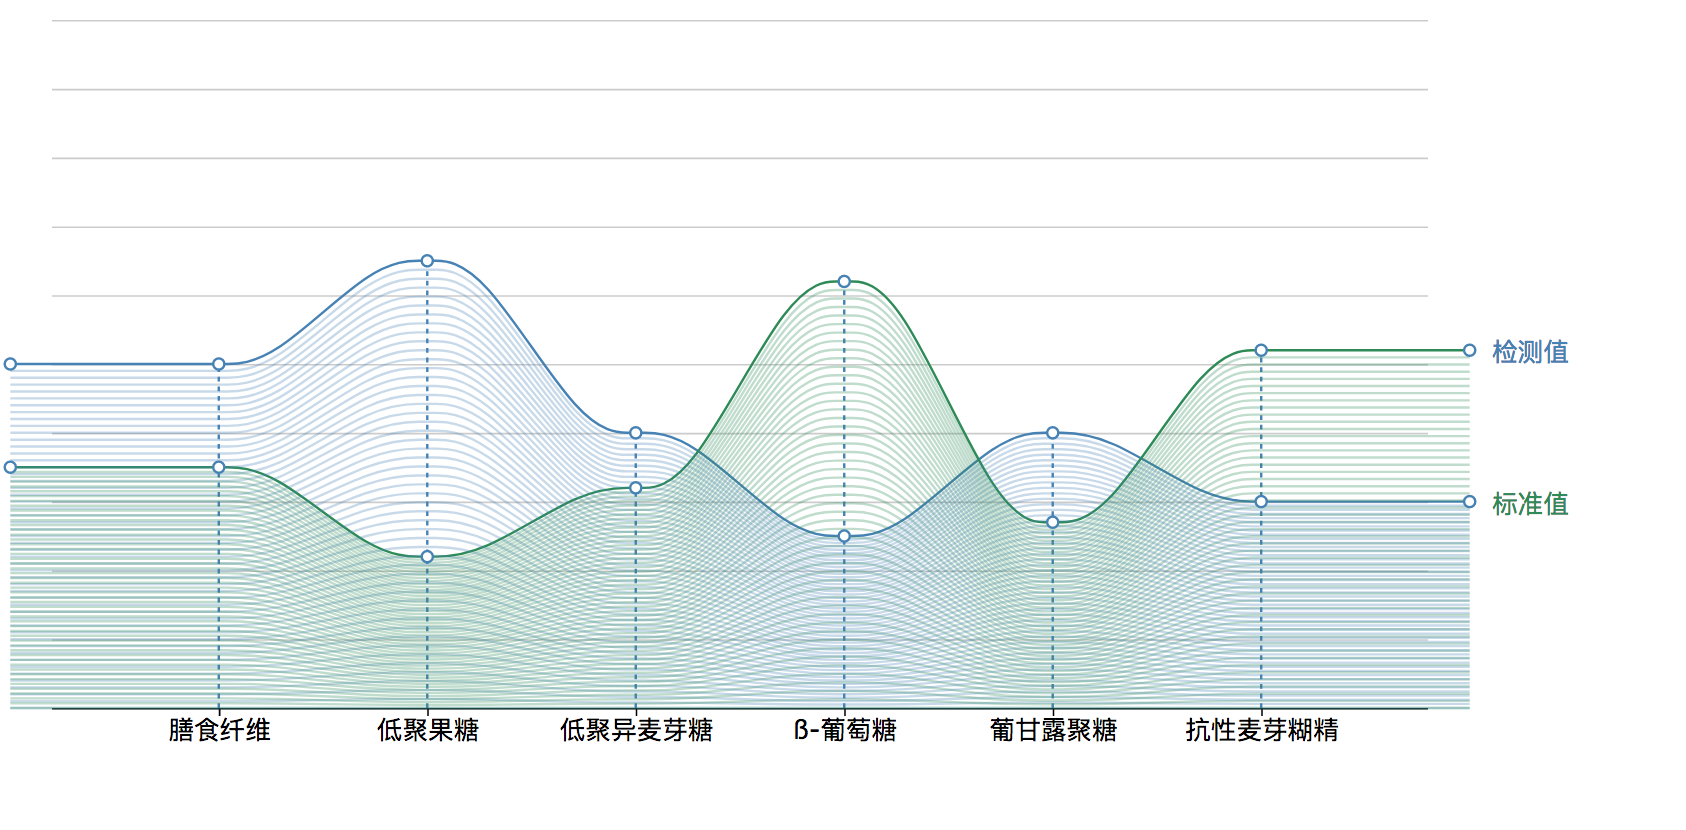
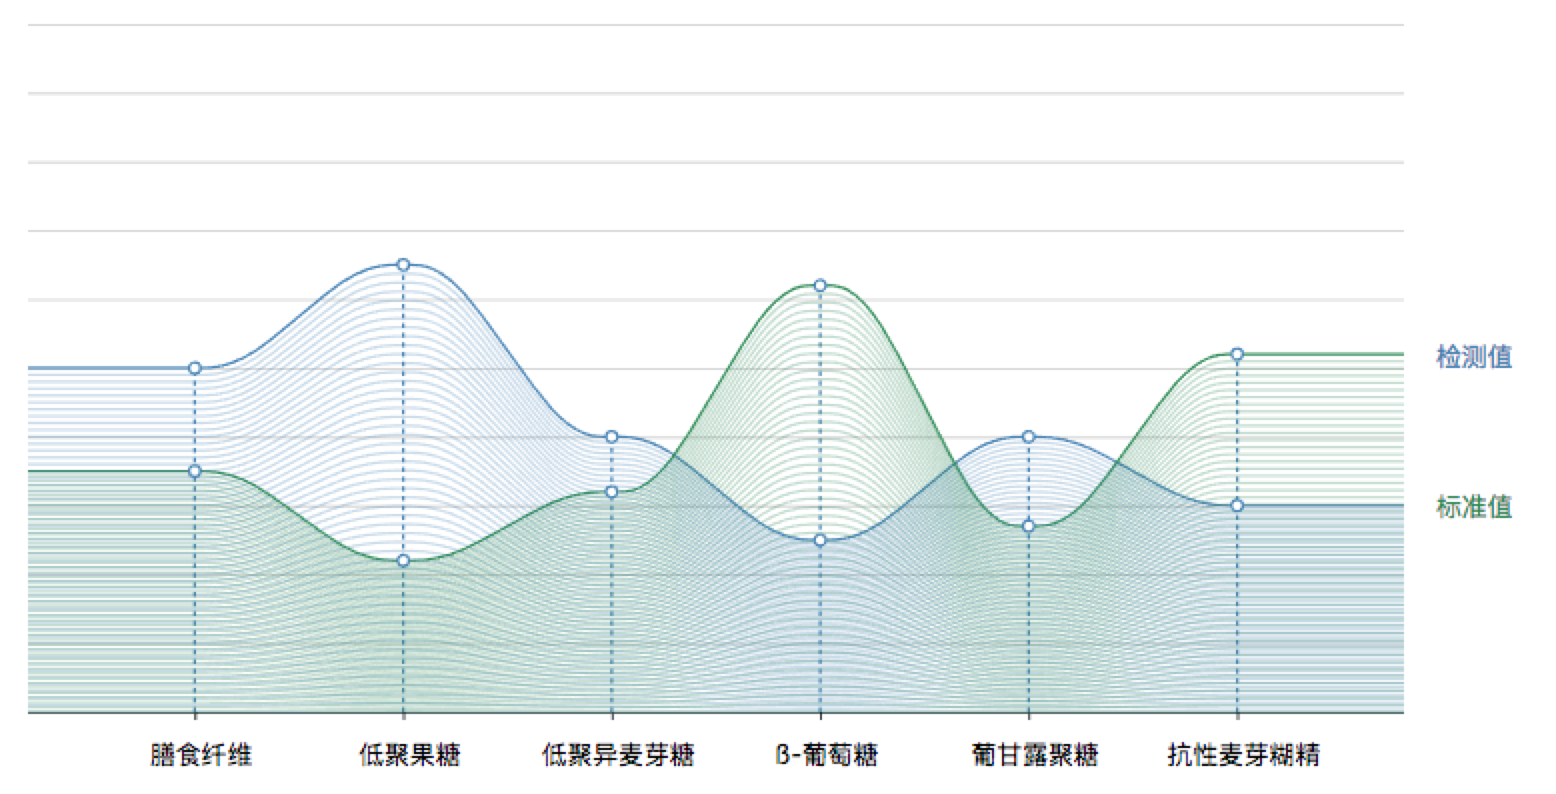
1:2:3 for antibiotics

diff --git a/lib/default-config/estimate-antibiotics.config.js b/lib/default-config/estimate-antibiotics.config.js
@@ -2,7 +2,7 @@ export default {
     top: [{
         x: -7,
         y: 5,
-        color: '',
+        color: 'seagreen',
         tag: {
             cn: '头孢菌素类',
             en: 'Cephalosporins'
@@ -16,7 +16,7 @@ export default {
     }, {
         x: -6,
         y: 7,
-        color: '',
+        color: 'seagreen',
         tag: {
             cn: '青霉素',
             en: 'Penicillins'
@@ -30,7 +30,7 @@ export default {
     }, {
         x: -5,
         y: 8,
-        color: '',
+        color: 'seagreen',
         tag: {
             cn: '林可酰胺类',
             en: 'Lincosamides'
@@ -44,7 +44,7 @@ export default {
     }, {
         x: -4,
         y: 6,
-        color: '',
+        color: 'seagreen',
         tag: {
             cn: '利福霉素类',
             en: 'Rifampins'
@@ -58,7 +58,7 @@ export default {
     }, {
         x: -3,
         y: 2,
-        color: '',
+        color: 'seagreen',
         tag: {
             cn: '多粘霉素类',
             en: 'Polymyxins'
@@ -72,7 +72,7 @@ export default {
     }, {
         x: 1,
         y: 1,
-        color: '',
+        color: 'orange',
         tag: {
             cn: '碳青霉烯类',
             en: 'Carbapenems'
@@ -86,7 +86,7 @@ export default {
     }, {
         x: 2,
         y: 4,
-        color: '',
+        color: 'orange',
         tag: {
             cn: '糖肽类',
             en: 'Glycopeptides'
@@ -100,7 +100,7 @@ export default {
     }, {
         x: 5,
         y: 3,
-        color: '',
+        color: 'salmon',
         tag: {
             cn: '氨基糖苷类',
             en: 'Aminoglycosides'
@@ -115,7 +115,7 @@ export default {
     bottom: [{
         x: -2,
         y: 1,
-        color: '',
+        color: 'seagreen',
         tag: {
             cn: 'β-内酰胺',
             en: 'β-lactam'
@@ -129,7 +129,7 @@ export default {
     }, {
         x: -1,
         y: 3,
-        color: '',
+        color: 'seagreen',
         tag: {
             cn: '四环类素',
             en: 'Tetracyclines'
@@ -143,7 +143,7 @@ export default {
     }, {
         x: 0,
         y: 4,
-        color: '',
+        color: 'orange',
         tag: {
             cn: '磷霉素类',
             en: 'Fosfomycins'
@@ -157,7 +157,7 @@ export default {
     }, {
         x: 3,
         y: 5,
-        color: '',
+        color: 'orange',
         tag: {
             cn: '氯霉素类',
             en: 'Chloramphenicois'
@@ -171,7 +171,7 @@ export default {
     }, {
         x: 4,
         y: 6,
-        color: 'seagreen',
+        color: 'orange',
         tag: {
             cn: '大环内酯类',
             en: 'Macrolides'
@@ -185,7 +185,7 @@ export default {
     }, {
         x: 6,
         y: 7,
-        color: 'orange',
+        color: 'salmon',
         tag: {
             cn: '磺胺类',
             en: 'Sulfonamides'
@@ -199,7 +199,7 @@ export default {
     }, {
         x: 7,
         y: 2,
-        color: 'orange',
+        color: 'salmon',
         tag: {
             cn: '奎诺酮类',
             en: 'Quinolones'
